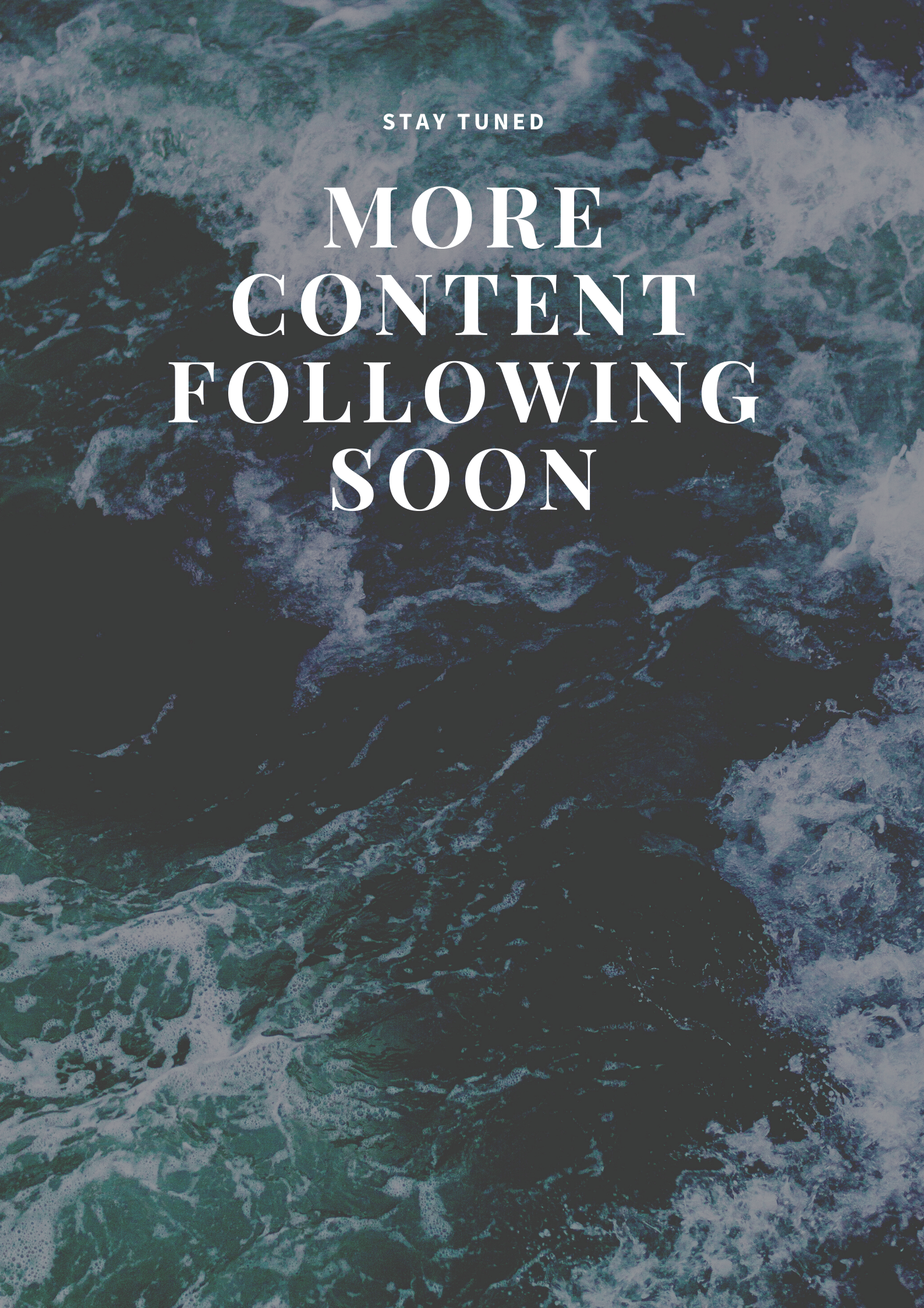
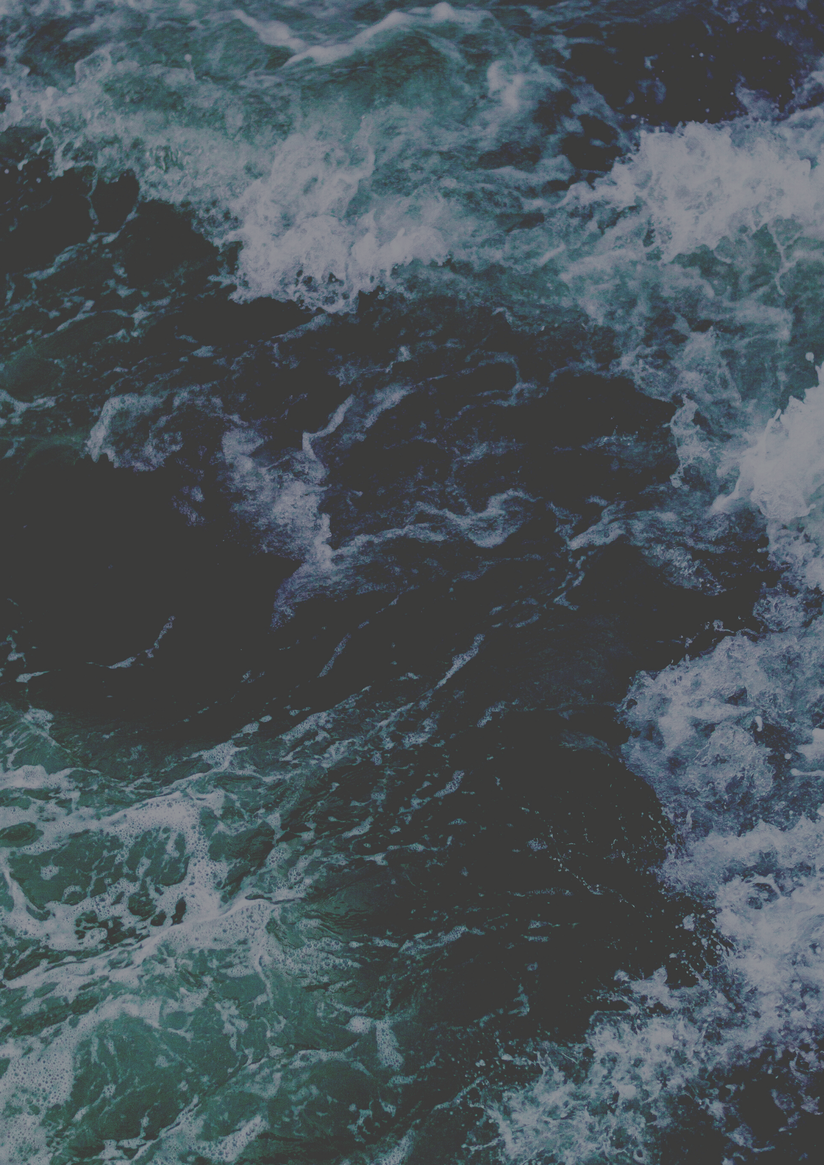
New Design music.html

diff --git a/avaz.scss b/avaz.scss
@@ -280,9 +280,20 @@ _____ABOUT PAGE________
 _____MUSIC PAGE________
 *********************** */
 
-#oceanwaves-video {
-  width: 100%;
-  opacity: 0.8;
+.music_body {
+  background-image: url("images/Music/music-content-soon.png");
+  background-repeat: repeat;
+  background-size: cover;
+  background-position: center;
+  padding-top: 50%;
+
+  h1 {
+    font-family: "Playfair Display", serif;
+    color: white;
+    text-align: center;
+    font-size: 3em;
+    letter-spacing: 0.5rem;
+  }
 }
 
 #main-music {
@@ -300,55 +311,47 @@ _____MUSIC PAGE________
 
 // MEDIA QUERIES //
 
-@media only screen and (max-width: 500px) {
-  .music_body {
-    background-image: url("images/Music/music-content-soon.png");
-    background-repeat: no-repeat;
-    background-size: cover;
-    background-position: center;
-    padding-top: 50%;
+@media only screen and (max-width: 450px) {
+  #main-music {
+    position: absolute;
+    top: 30% !important;
+    left: 50%;
   }
 
+  .music_body {
+    h1 {
+      margin-top: 100px;
+      font-size: 2rem;
+    }
+  }
+}
+
+@media only screen and (max-width: 500px) {
   #footer-music {
     background-color: transparent;
-    padding-top: 100%;
   }
 
-  #oceanwaves-video {
-    display: none;
+  .music_body {
+    h1 {
+      padding-top: 130px;
+    }
+
+    .navbar {
+      background-color: transparent !important;
+      position: absolute !important;
+    }
+  }
+}
+
+@media only screen and (max-width: 1024px) {
+  #footer-music {
+    background-color: transparent;
   }
 
   #main-music {
-    margin-top: 80%;
-  }
-}
-
-@media only screen and (max-width: 644px) {
-  #oceanwaves-video {
-    margin-top: 50px;
-  }
-
-  #main-music {
-    top: 40%;
-  }
-}
-
-@media only screen and (max-width: 776px) {
-  #main-music {
-    top: 40%;
-  }
-}
-
-@media only screen and (max-width: 1100px) {
-  #oceanwaves-video {
-    width: 90%;
-    height: 120%;
-  }
-}
-
-@media only screen and (max-width: 1270px) {
-  #oceanwaves-video {
-    width: 115%;
+    position: absolute;
+    top: 25%;
+    left: 50%;
   }
 }
 

diff --git a/avaz.css b/avaz.css
@@ -280,9 +280,20 @@ _____ABOUT PAGE________
 /* ********************
 _____MUSIC PAGE________
 *********************** */
-#oceanwaves-video {
-  width: 100%;
-  opacity: 0.8;
+.music_body {
+  background-image: url("images/Music/music-content-soon.png");
+  background-repeat: repeat;
+  background-size: cover;
+  background-position: center;
+  padding-top: 50%;
+}
+
+.music_body h1 {
+  font-family: "Playfair Display", serif;
+  color: white;
+  text-align: center;
+  font-size: 3em;
+  letter-spacing: 0.5rem;
 }
 
 #main-music {
@@ -304,51 +315,39 @@ _____MUSIC PAGE________
   border-radius: 5px;
 }
 
-@media only screen and (max-width: 500px) {
-  .music_body {
-    background-image: url("images/Music/music-content-soon.png");
-    background-repeat: no-repeat;
-    background-size: cover;
-    background-position: center;
-    padding-top: 50%;
+@media only screen and (max-width: 450px) {
+  #main-music {
+    position: absolute;
+    top: 30% !important;
+    left: 50%;
   }
+  .music_body h1 {
+    margin-top: 100px;
+    font-size: 2rem;
+  }
+}
+
+@media only screen and (max-width: 500px) {
   #footer-music {
     background-color: transparent;
-    padding-top: 100%;
   }
-  #oceanwaves-video {
-    display: none;
+  .music_body h1 {
+    padding-top: 130px;
+  }
+  .music_body .navbar {
+    background-color: transparent !important;
+    position: absolute !important;
+  }
+}
+
+@media only screen and (max-width: 1024px) {
+  #footer-music {
+    background-color: transparent;
   }
   #main-music {
-    margin-top: 80%;
-  }
-}
-
-@media only screen and (max-width: 644px) {
-  #oceanwaves-video {
-    margin-top: 50px;
-  }
-  #main-music {
-    top: 40%;
-  }
-}
-
-@media only screen and (max-width: 776px) {
-  #main-music {
-    top: 40%;
-  }
-}
-
-@media only screen and (max-width: 1100px) {
-  #oceanwaves-video {
-    width: 90%;
-    height: 120%;
-  }
-}
-
-@media only screen and (max-width: 1270px) {
-  #oceanwaves-video {
-    width: 115%;
+    position: absolute;
+    top: 25%;
+    left: 50%;
   }
 }
 

diff --git a/music.html b/music.html
@@ -19,6 +19,9 @@
       href="https://fonts.googleapis.com/css2?family=Raleway:ital,wght@0,200;0,300;0,400;0,500;0,600;0,700;1,200;1,300;1,400&display=swap"
       rel="stylesheet"
     />
+    <link rel="preconnect" href="https://fonts.googleapis.com">
+<link rel="preconnect" href="https://fonts.gstatic.com" crossorigin>
+<link href="https://fonts.googleapis.com/css2?family=Playfair+Display&display=swap" rel="stylesheet">
     <!-- Font Awesome CDN -->
     <link
       rel="stylesheet"
@@ -118,17 +121,9 @@
       </nav>
     </header>
  </div>
- <!-- Video -->
- <video
- autoplay
- loop
- muted
- src="videos/oceanwaves.mp4"
- type="video/mov"
- id="oceanwaves-video"
- playsinline
-></video>
+<!-- Header -->
 </header>
+  <h1> More <br> content <br> following <br> soon</h1>
     <!-- Main Content -->
     <main class="main" id="main-music">
       <!-- Follow Button -->

diff --git a/index.html b/index.html
@@ -18,6 +18,15 @@
     <link
       href="https://fonts.googleapis.com/css2?family=Raleway:ital,wght@0,200;0,300;0,400;0,500;0,600;0,700;1,200;1,300;1,400&display=swap"
       rel="stylesheet"
+      <link
+      rel="preconnect"
+      href="https://fonts.googleapis.com"
+    />
+    <link rel="preconnect" href="https://fonts.gstatic.com" crossorigin />
+    <link
+      href="https://fonts.googleapis.com/css2?family=Playfair+Display&display=swap"
+      rel="stylesheet"
+    />
     />
     <!-- Font Awesome CDN -->
     <link
